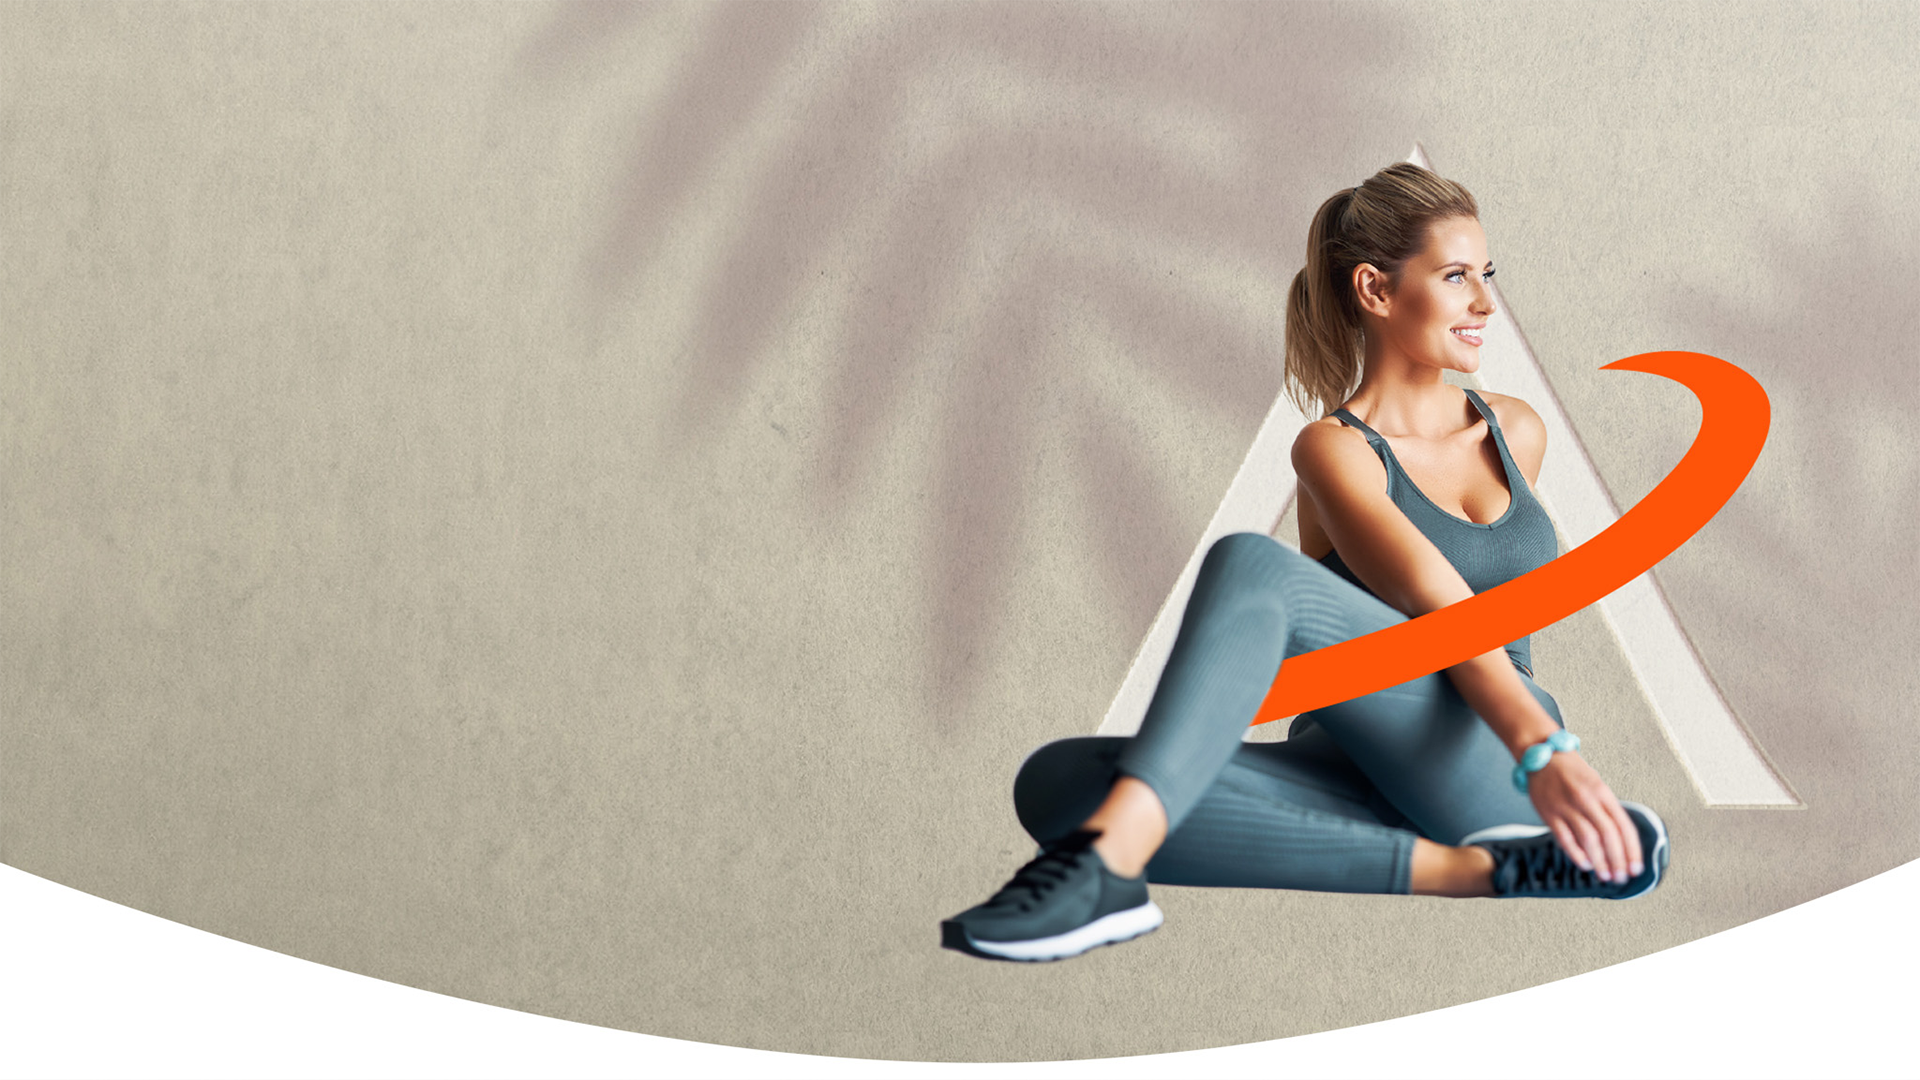
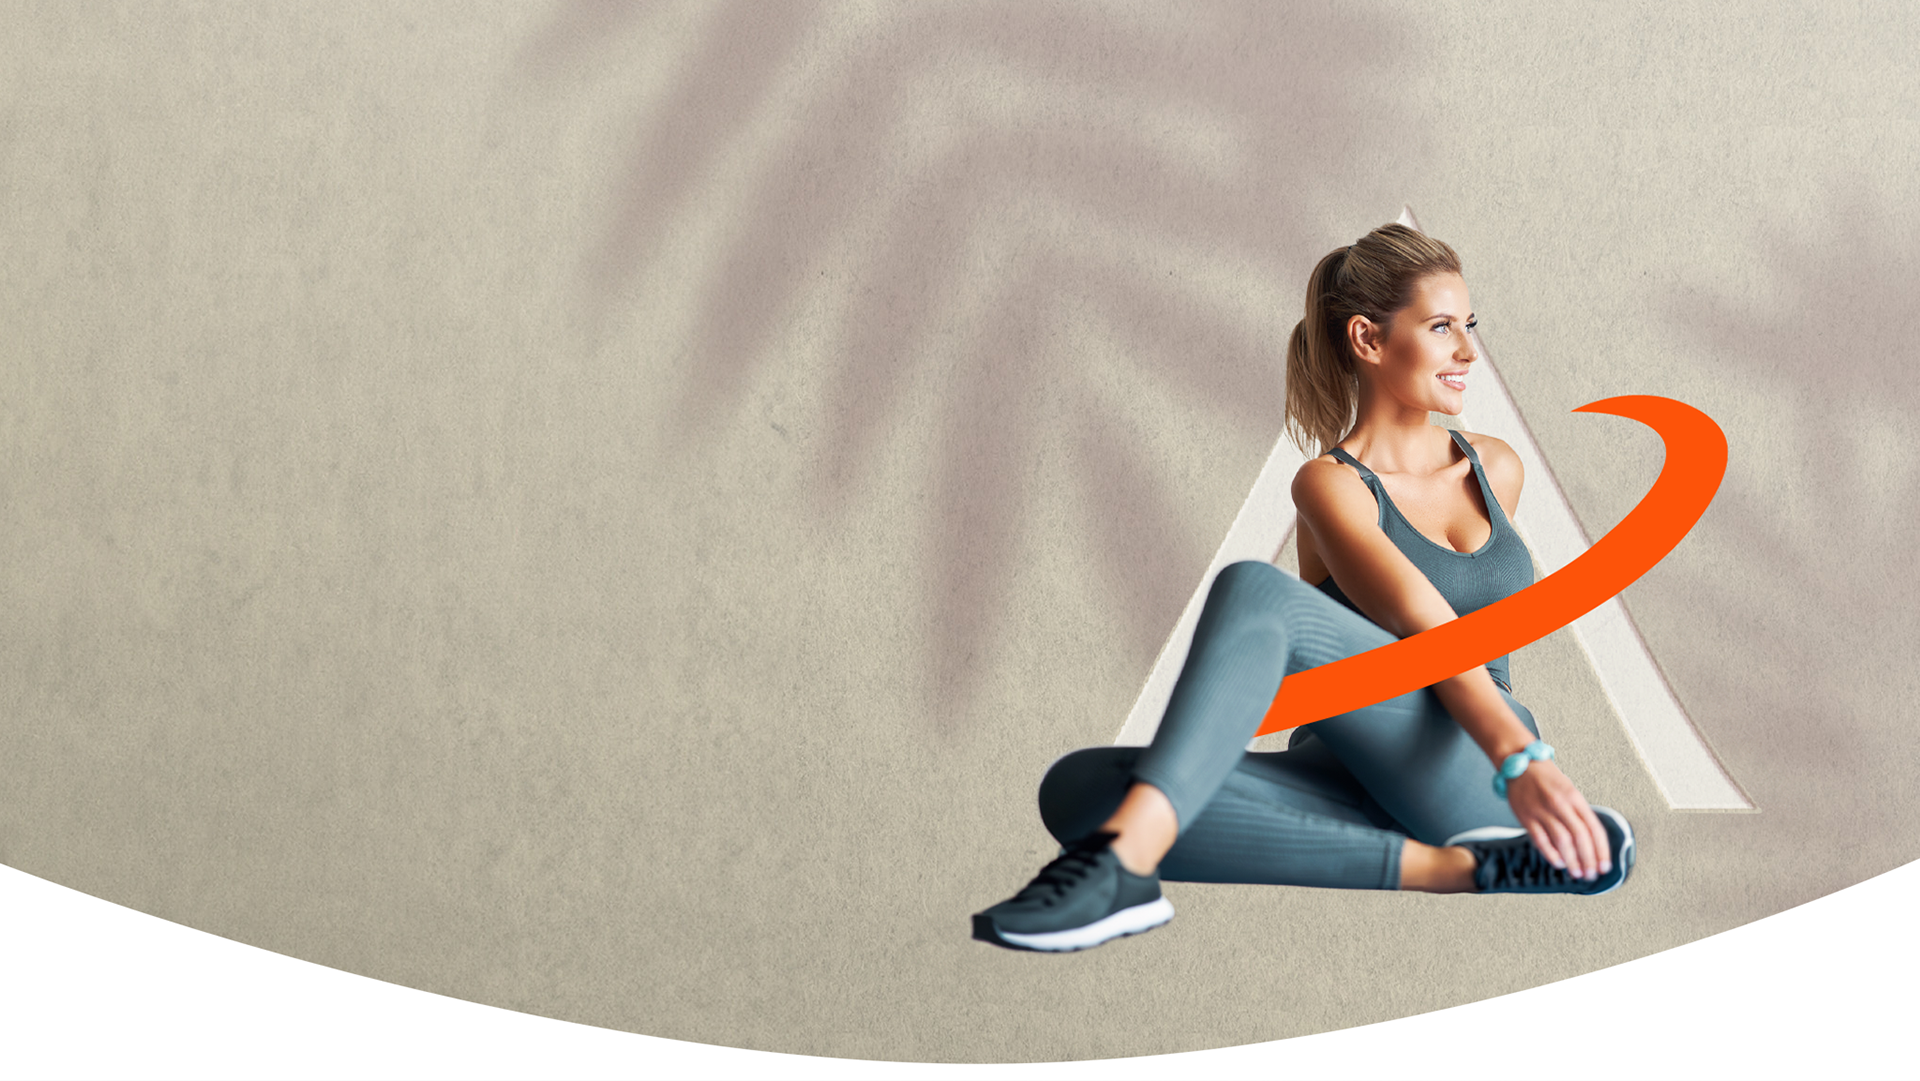
changed hero
changed the hero bg image to have the girl be smaller
added the logo in the nav bar
changed the h1 font size
changed the big classfont size
made the logo in the nav bar have a responsive size
changed the nav bar scroll color to a gradient
had the hero bg image anchor to the bottom centre

Changed region(s): [[0.4688, 0.1222, 0.9375, 0.9167]]

diff --git a/assets/css/main.css b/assets/css/main.css
@@ -149,9 +149,10 @@ h6 {
 --------------------------------------------------------------*/
 .big {
   font-family: "Bricolage Grotesque";
-  font-size: 200px;
+  font-size: 160px;
   font-weight: 100;
-  line-height: 185px;
+  line-height: 120px;
+  letter-spacing: -5pt;
   margin: -10px;
 }
 
@@ -168,7 +169,7 @@ h6 {
 }
 
 .header .logo img {
-  max-height: 36px;
+  max-height: 46px;
   margin-right: 8px;
 }
 
@@ -202,6 +203,10 @@ h6 {
     order: 1;
   }
 
+  .header .logo img {
+    max-height: 36px;
+  }
+
   .header .btn-getstarted {
     order: 2;
     margin: 0 15px 0 0;
@@ -210,6 +215,12 @@ h6 {
 
   .header .navmenu {
     order: 3;
+  }
+}
+
+@media (max-width: 768px){
+  .header .logo img {
+    max-height: 26px;
   }
 }
 
@@ -228,7 +239,8 @@ h6 {
 ------------------------------*/
 .index-page.scrolled .header {
   --nav-hover-color: #FD5309;
-  background: #ffffff
+  background: linear-gradient(to right, rgba(97, 138, 172, 0.521), white, white);
+  backdrop-filter: blur(8px);
 }
 
 /*--------------------------------------------------------------
@@ -851,15 +863,15 @@ section,
   padding: 00px 0 00px 0;
   display: flex;
   align-items: center;
-  background: url(../img/hero-bg.png) top center no-repeat;
+  background: url(../img/hero-bg.png) bottom center no-repeat;
   background-size: cover;
 }
 
 .hero h1 {
   margin: 0;
-  font-size: 48px;
+  font-size: 38px;
   font-weight: 400;
-  line-height: 52px;
+  line-height: 42px;
   font-family: "Manrope";
 }
 
